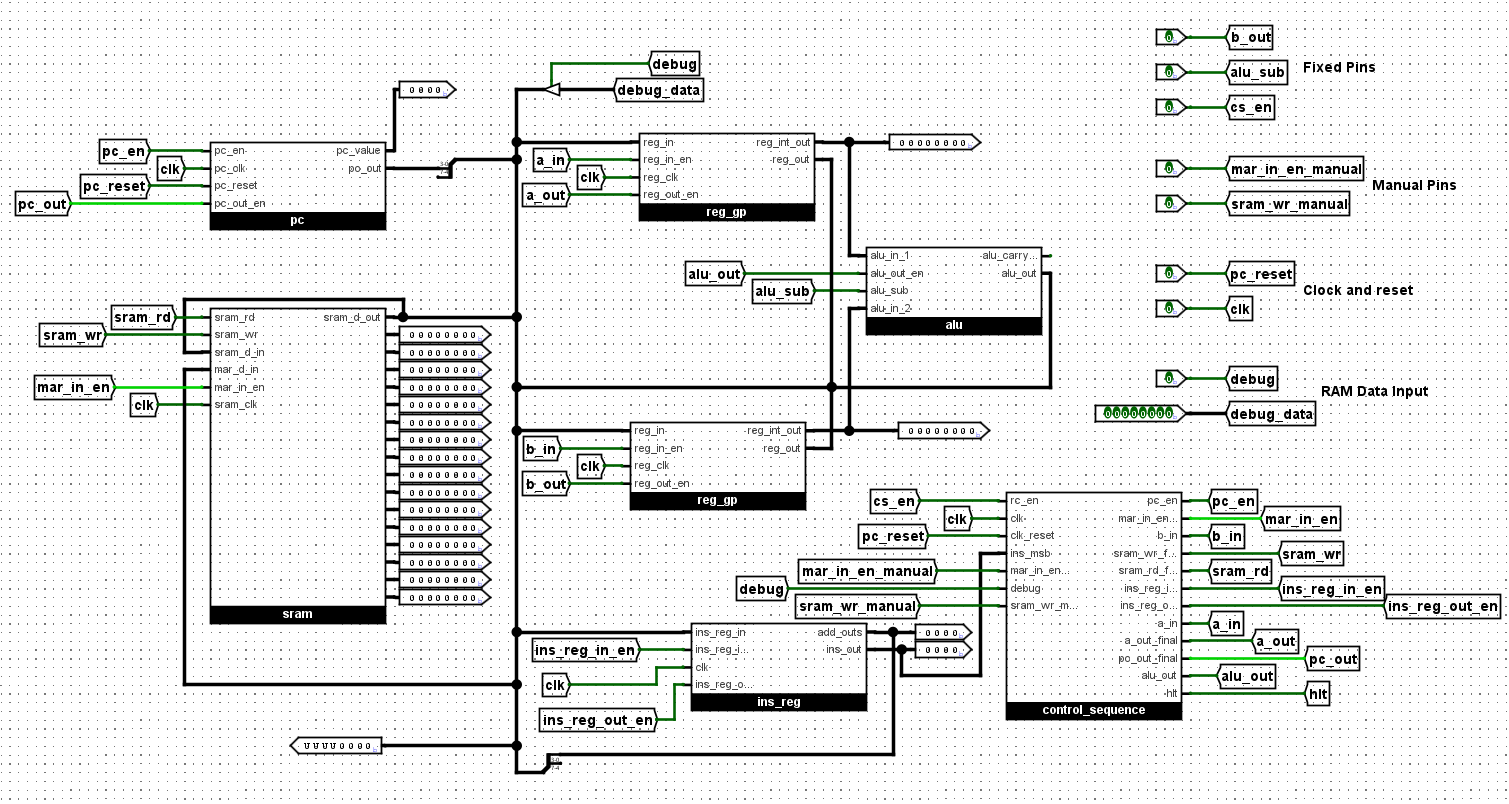
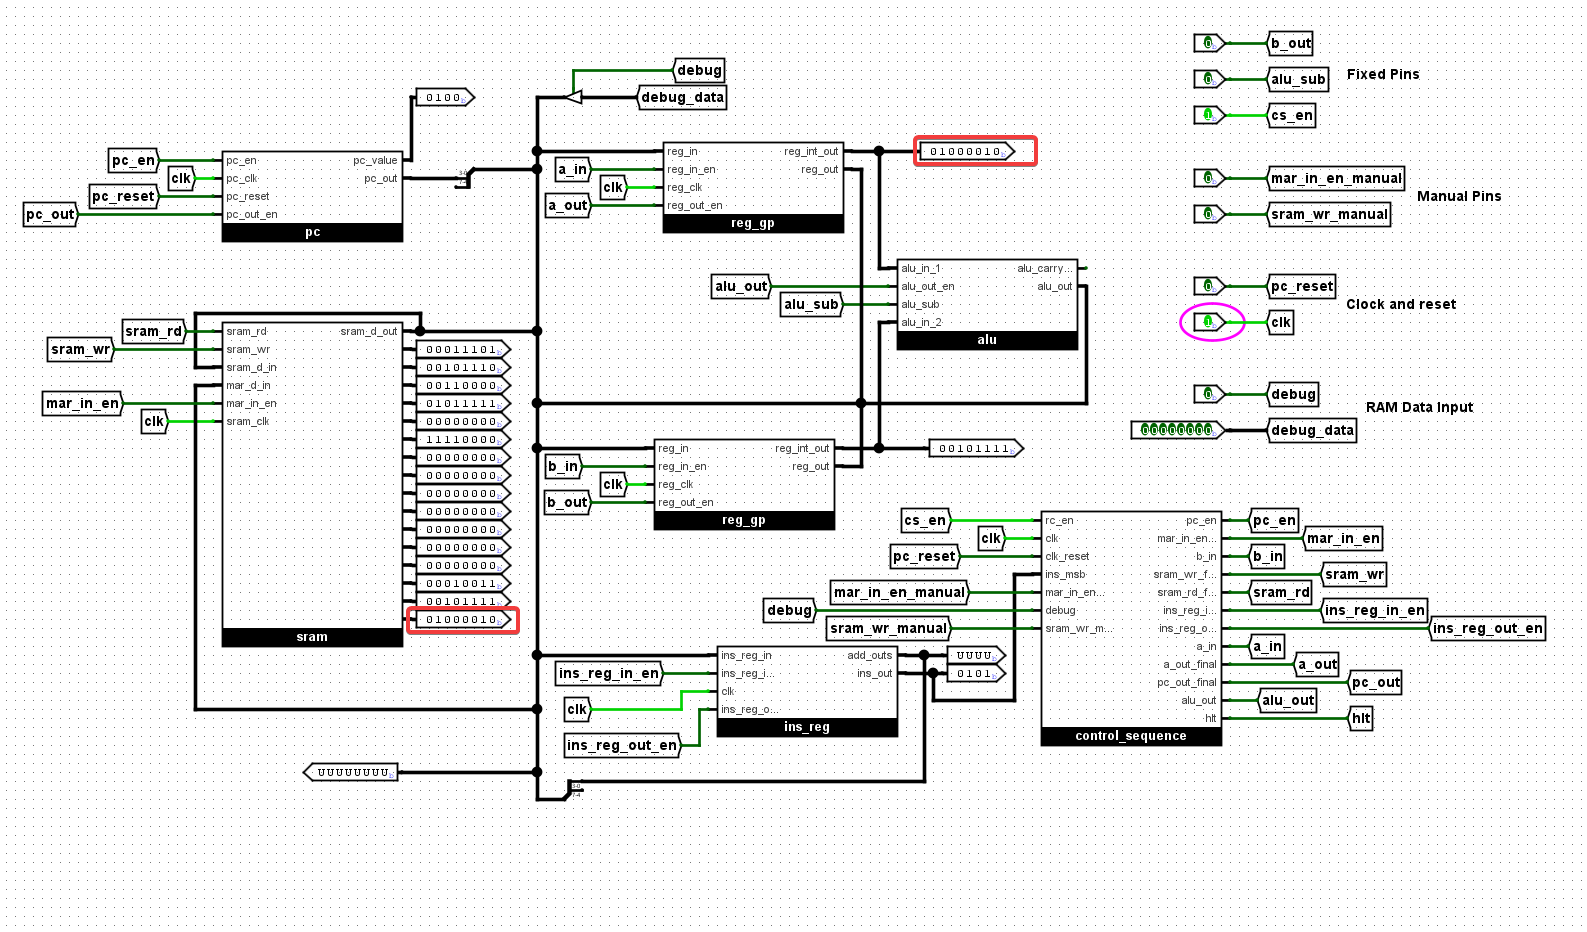
add new images and update references in README for SAP-1 project

Changed region(s): [[0.0, 0.0311, 0.9967, 0.9639]]

diff --git a/readme.md b/readme.md
@@ -83,7 +83,7 @@ Video demonstrations are available to guide you through the SAP-1 CPU simulation
 
 - **Auto Mode (`sap1_auto_avishek.circ`)**
 
-  ![Main Control Unit](images/sap1_auto_avishek.png)
+  ![Main Control Unit](images/sap1_auto1_avishek.png)
 
 ---
 
@@ -326,7 +326,7 @@ Control signals execute the instruction over T4-T6, halting at `HLT`.
 ### 2) Program the ROM
 
 1. Right-click ROM, select **Edit Contents**.
-2. Enter hex (e.g., `1D 2E 30 5F 64 F0 00 00 00 00 00 00 00 33 19 00`).
+2. Enter hex (e.g., `1D 2E 30 5F F0 00 00 00 00 00 00 00 00 13 2F 00`).
 3. Save with **OK**.
 
 ### 3) Load Program to RAM (Bootloader)
@@ -351,9 +351,9 @@ Control signals execute the instruction over T4-T6, halting at `HLT`.
 ### 6) Verify Result
 
 1. After `HLT`, check RAM address `00001111` (15).
-2. Expect `01001100` (76, Hex `4C`) if ADD executed.
+2. Expect `01000010` (66, Hex `42`) if ADD executed.
 
-![Verify Result](images/sap1_result_avishek.png)
+![Verify Result](images/sap1_auto1_avishek.png)
 
 ---
 
